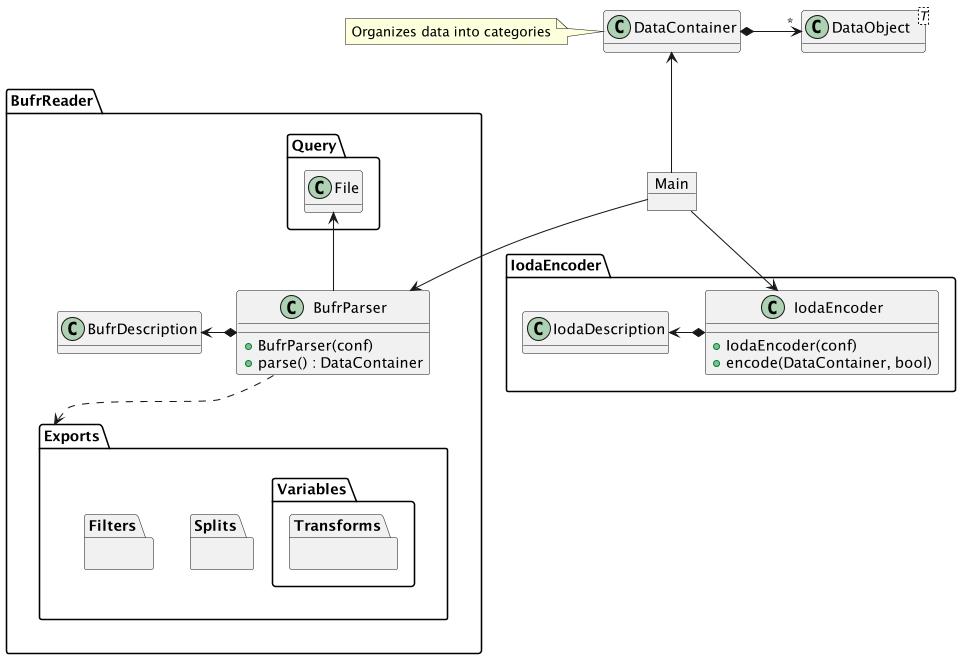
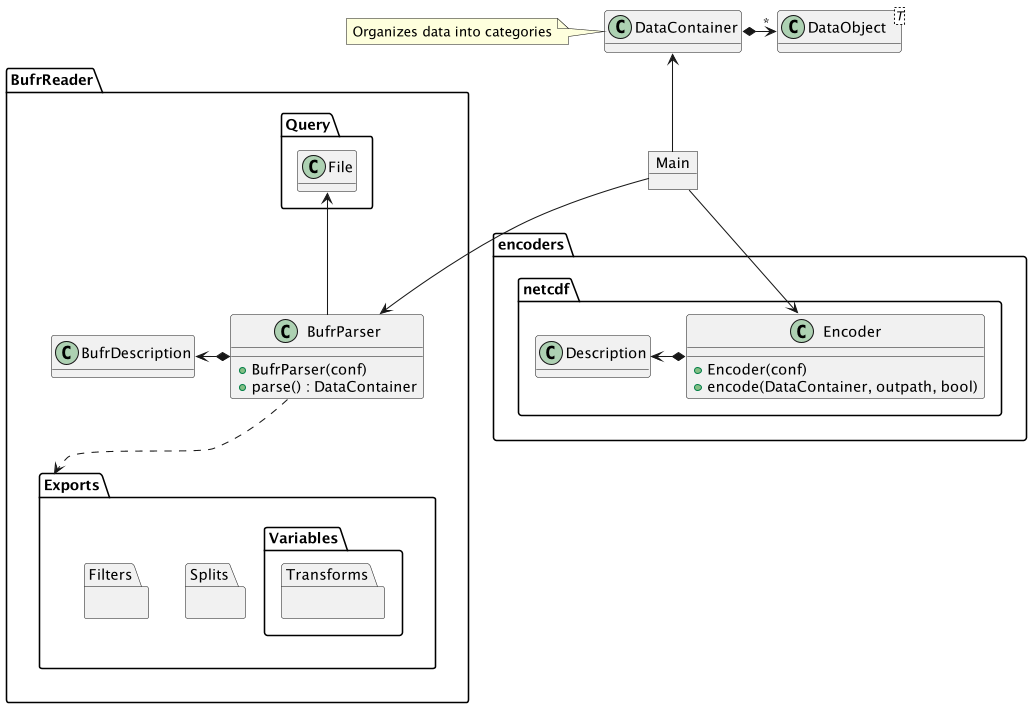
updated some documentation

diff --git a/docs/python_api.rst b/docs/python_api.rst
@@ -15,26 +15,31 @@ work will be done in native code. Here is a simple example in the form of a "scr
 .. code-block:: python
 
   import bufr
+  from bufr.encoders import netcdf
 
-  def create_obs_group(input_path, category):
-    YAML_PATH = "./testinput/bufrtest_bufr_basic.yaml"
+  def get_data(input_path, category):
+    YAML_PATH = 'testinput/bufrtest_hrs_basic_mapping.yaml'
+    OUTPUT_PATH = 'testrun/hrs.nc'
+
     container = bufr.Parser(input_path, YAML_PATH).parse()
 
-    encoder = bufr.IodaEncoder(YAML_PATH)
-    data = encoder.encode(container)
-    return data[category]
+    datasets = netcdf.Encoder(YAML_PATH).encode(container, OUTPUT_PATH)[category]
+    obs_temp = dataset["ObsValue/brightnessTemperature"][:]
+    dataset.close()
+
+    return obs_temp
 
 As opposed to dealing with the low level components (bufr.QuerySet, bufr.File, bufr.ResultSet) directly the example
-makes use of the bufr.Parser, bufr.DataContainer, and bufr.IodaEncoder components. The
+makes use of the bufr.Parser, bufr.DataContainer, and bufr.encoder.netcdf.Encoder components. The
 :ref:`Mapping YAML File` defines the queries and mapping to the resulting ObsGroup object in its **bufr** and
-**ioda** sections.
+**encoder** sections.
 
 The basic steps involved are:
     #. Import the bufr module
     #. Create a Parser object with the path to the BUFR file and the path to the YAML file
     #. Parse the BUFR file into a DataContainer object
     #. *(optional)* Modify the DataContainer
-    #. Create an IodaEncoder object with the path to the mapping YAML file
+    #. Create an Encoder object with the path to the mapping YAML file
     #. Encode the DataContainer object as a dict (keys=tuple(str) and values=ObsGroup)
     #. Return the encoded ObsGroup object
 
@@ -93,31 +98,30 @@ So to replace a value in the DataContainer you would do something like this (ass
 .. code-block:: python
 
   import bufr
+  from bufr.encoders import netcdf
 
-  def create_obs_group(input_path):
-    YAML_PATH = "./testinput/iodatest_bufr_basic.yaml"
+  def get_data(input_path):
+    YAML_PATH = 'testinput/bufrtest_hrs_basic_mapping.yaml'
+    OUTPUT_PATH = 'testrun/hrs.nc'
 
-    # Get the DataContainer
     container = bufr.Parser(input_path, YAML_PATH).parse()
-    data = container.get('variables/radiance')
 
-    # Modify the data
-    data[0, 0] = 0.0
+    data = container.get('variables/brightnessTemp')
+    container.replace('variables/brightnessTemp', data * 1.1)
 
-    # Replace the data
-    container.replace('variables/radiance', data)
+    datasets = netcdf.Encoder(YAML_PATH).encode(container, OUTPUT_PATH).values()
+    obs_temp = dataset["ObsValue/brightnessTemperature"][:]
+    dataset.close()
 
-    encoder = bufr.IodaEncoder(YAML_PATH)
-    data = encoder.encode(container)
-    return next(iter(data.values()))
+    return obs_temp
 
-IodaDescription
-~~~~~~~~~~~~~~~
+Encoder Description
+~~~~~~~~~~~~~~~~~~~
 
-Taking this a step further, adding a new variable requires that you also add the variable to the IodaDescription so
-that the IodaEncoder writes it out to the ObsGroup.
+Taking this a step further, adding a new variable requires that you also add the variable to the Description so
+that the Encoder writes it out to the ObsGroup.
 
-.. class:: IodaDescription
+.. class:: Description
 
       .. method:: add_variable(field_name, dim_paths, units, long_name='')
 
@@ -129,9 +133,11 @@ So the code looks more like this:
 .. code-block:: python
 
   import bufr
+  from bufr.encoders import netcdf
 
-  def create_obs_group(input_path):
-      YAML_PATH = './testinput/bufr_hrs.yaml'
+  def get_data(input_path):
+      YAML_PATH = 'testinput/bufrtest_hrs_basic_mapping.yaml'
+      OUTPUT_PATH = 'testrun/hrs.nc'
 
       container = bufr.Parser(input_path, YAML_PATH).parse()
 
@@ -139,13 +145,15 @@ So the code looks more like this:
       paths = container.getPaths('variables/brightnessTemp')
       container.add('variables/brightnessTemp_new', data*.01, paths)
 
-      iodaDescription = bufr.IodaDescription(YAML_PATH)
-      iodaDescription.add_variable(name='ObsValue/new_brightnessTemperature',
-                                   source='variables/brightnessTemp_new',
-                                   units='K',
-                                   longName='New Brightness Temperature')
+      description = netcdf.Description(YAML_PATH)
+      description.add_variable(name='ObsValue/new_brightnessTemperature',
+                               source='variables/brightnessTemp_new',
+                               units='K',
+                               longName='New Brightness Temperature')
 
-      return next(iter(bufr.IodaEncoder(iodaDescription).encode(container).values()))
+      dataset = next(iter(netcdf.Encoder(description).encode(container, OUTPUT_PATH).values()))
+      return dataset
+
 
 Adding a new variable is a little more involved. The most difficult part is to correctly configure a path for the
 variable. The easiest way to solve this is to copy the path from an existing variable otherwise you will have to
@@ -182,9 +190,11 @@ Example:
 .. code-block:: python
 
   import bufr
+  from bufr.encoders import netcdf
 
-  def create_obs_group(input_path, category):
-      YAML_PATH = './testinput/bufr_hrs.yaml'
+  def get_data(input_path, category):
+      YAML_PATH = 'testinput/bufr_hrs.yaml'
+      OUTPUT_PATH = 'testrun/hrs.nc'
 
       if not bufr.DataCache.has(input_path, YAML_PATH):
         container = bufr.Parser(input_path, YAML_PATH).parse()
@@ -196,8 +206,8 @@ Example:
       data = container.get('variables/brightnessTemp', category)
       container.replace('variables/brightnessTemp', data*.01, category)
 
-      encoded = bufr.IodaEncoder(YAML_PATH).encode(container)
-      return encoded[category]
+      dataset = netcdf.Encoder(YAML_PATH).encode(container, OUTPUT_PATH)[category]
+      return dataset
 
 
 

diff --git a/docs/software_architecture.rst b/docs/software_architecture.rst
@@ -8,10 +8,10 @@ Software Design
     :align: center
     :alt: Big Picture
 
-From the highest level the BUFR IODA backend component is composed of 2 main packages BufrReader and Encoder. The
+From the highest level the BUFR query library is composed of 2 main packages BufrReader and Encoders. The
 BufrReader is responsible for taking a BufrDescription (provided in the form of a YAML file) and using it to read
-raw BUFR data into a DataContainer object. This DataContainer object is then used by the IaEncoder (together
-with a IodaDescription) to encode an IODA ObsGroup object.
+raw BUFR data into a DataContainer object. This DataContainer object is then used by the Encoder (together
+with a Description) to encode data into the target format (example netcdf).
 
 The BufrParser class has some ability to manipulate the data in order to create usable data sets. For example, it
 has the ability to split data sets according to the value of a read variable (ex: satellite ID) creating multiple

diff --git a/docs/yaml.rst b/docs/yaml.rst
@@ -131,14 +131,16 @@ It has the following sub-sections:
 .. note::
     Either **upperBound**, **lowerBound**, or both must be present.
 
-IODA Description
+Encoder Description
 ~~~~~~~~~~~~~~~~
 
 The **ioda** section defines the ObsGroup objects that will be created. Here is an example:
 
 .. code-block:: yaml
 
-  ioda:
+  encoder:
+    type: netcdf
+
     dimensions:
       - name: nchans
         paths:
